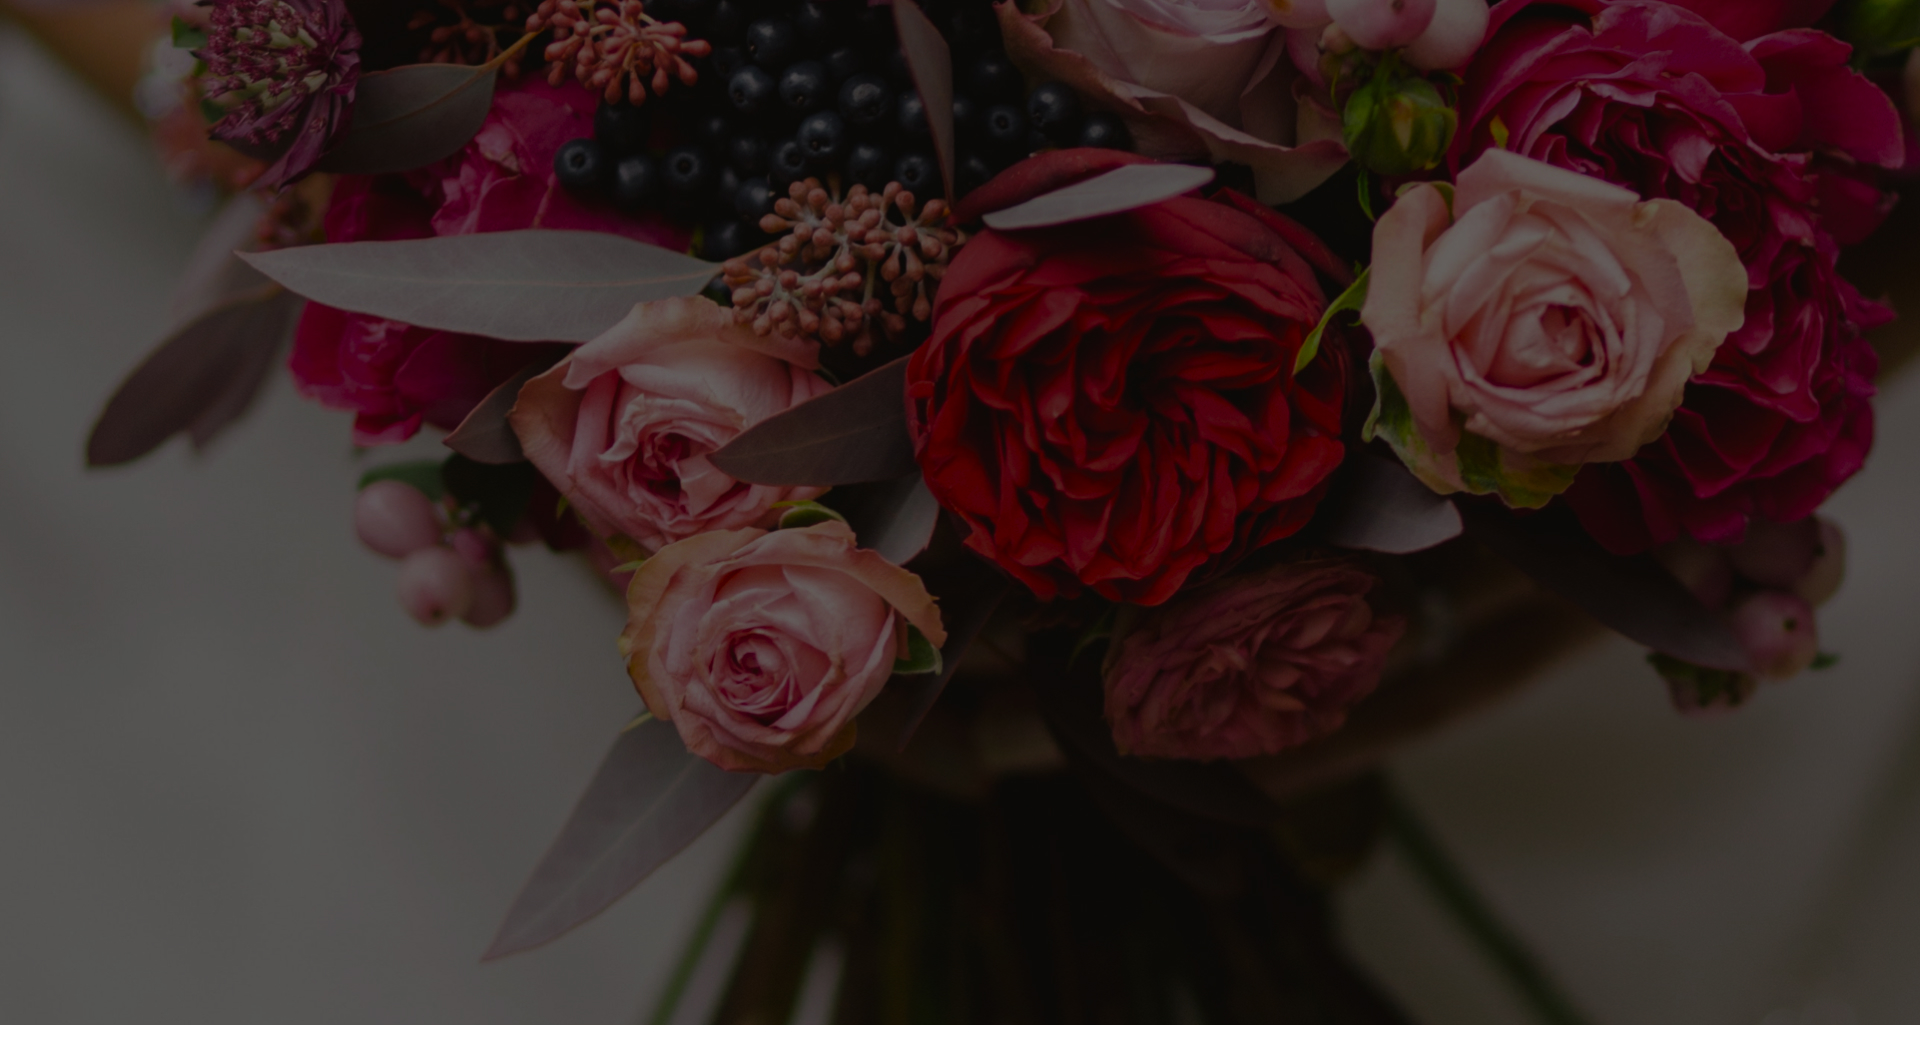
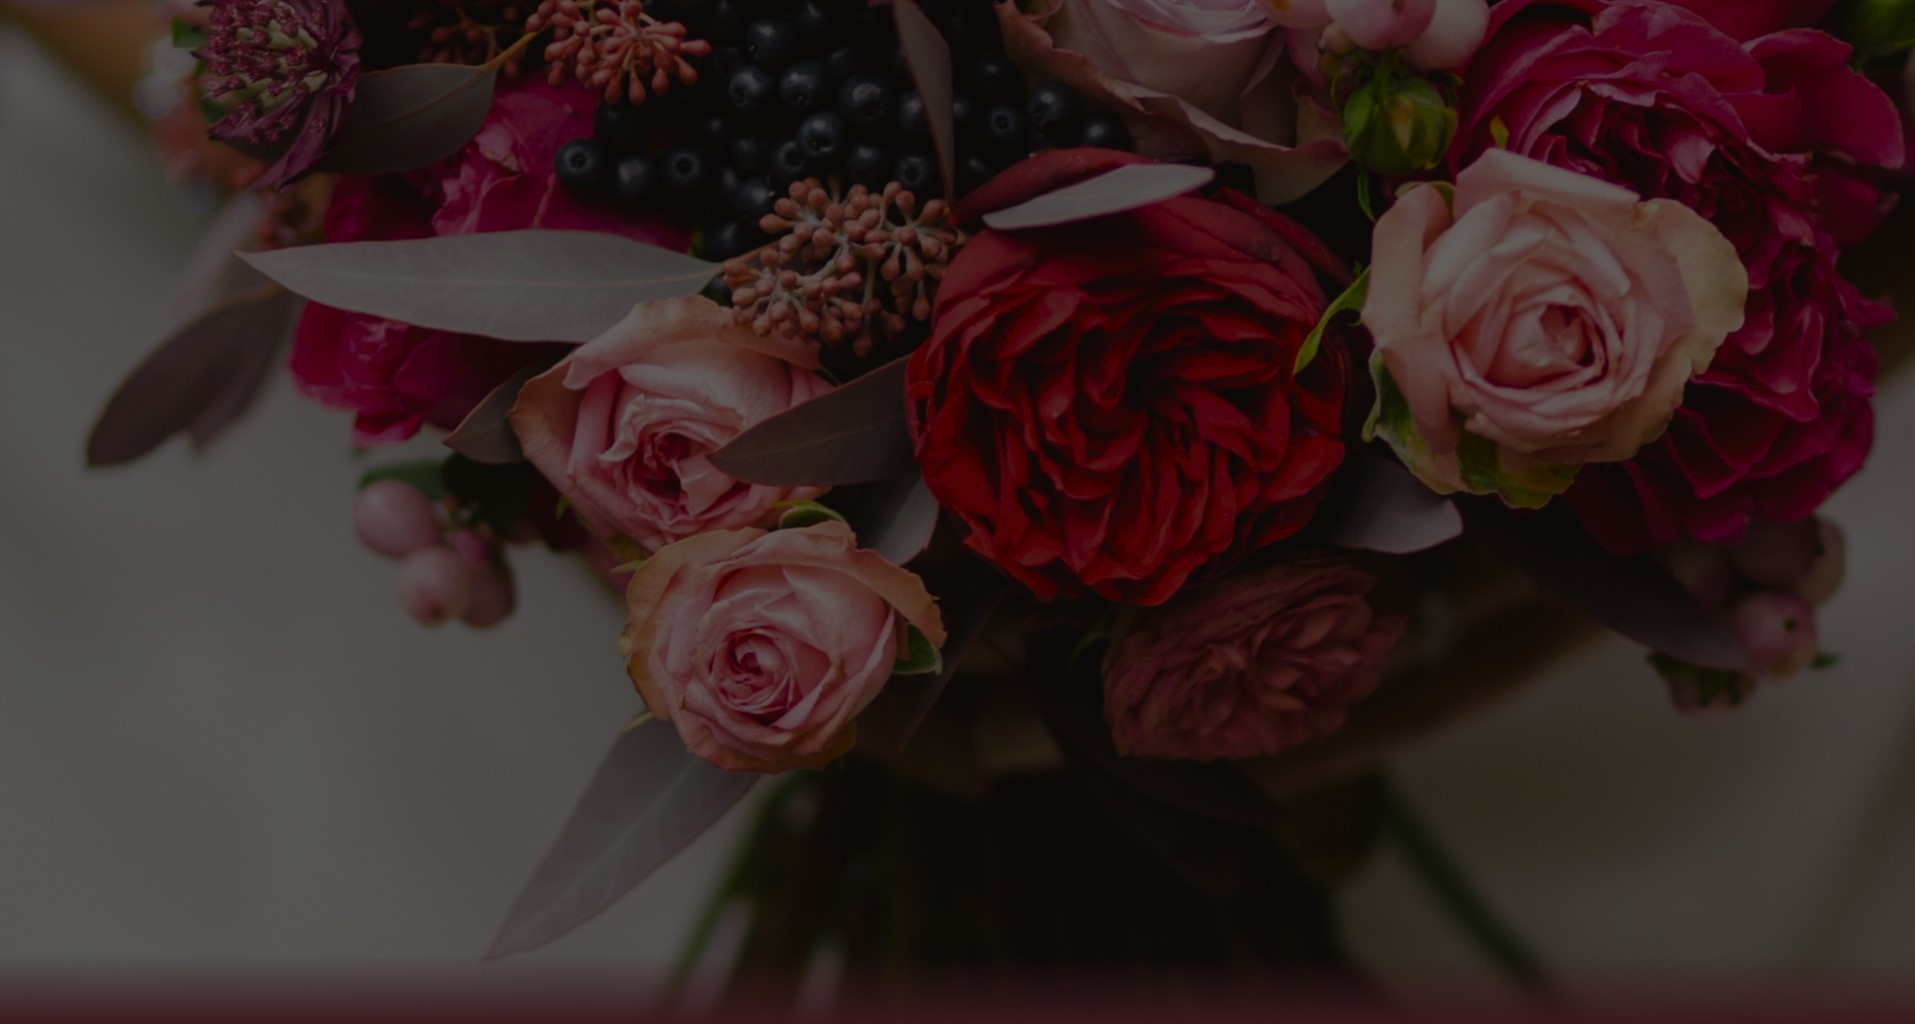
Стилизовал шапку и промо блок

diff --git a/css/style.css b/css/style.css
@@ -1,0 +1,206 @@
+body {
+    padding: 0;
+    margin: 0;
+
+    font-family: "Forum", sans-serif;
+    font-weight: normal;
+    font-size: 18px;
+    line-height: 170%;
+    color: white;
+
+
+    background: #3B181E url("../img/body-bg.jpg") no-repeat top center;
+}
+
+.container {
+    width: 1729px;
+    margin: 0 auto;
+}
+
+.visually-hidden {
+    position: absolute;
+    clip: rect(1px, 1px, 1px, 1px);
+    padding: 0;
+    border: 0;
+    height: 1px;
+    width: 1px;
+    overflow: hidden;
+}
+
+.button {
+    display: inline-block;
+    padding: 18px 30px;
+    border: 1px solid white;
+
+    font-size: 12px;
+    line-height: normal;
+    letter-spacing: 0.15em;
+    text-align: center;
+    text-transform: uppercase;
+    text-decoration: none;
+    color: white;
+}
+
+.section-title {
+    margin: 0;
+
+    font-weight: normal;
+    font-size: 30px;
+    line-height: normal;
+    letter-spacing: 0.06em;
+    color: white;
+}
+
+.main-nav-wrapper {
+    display: flex;
+    align-items: flex-start;
+    justify-content: space-between;
+}
+
+.logo {
+    padding: 87px 0 50px 0;
+}
+
+.header-menu-list {
+    display: flex;
+    flex-wrap: wrap;
+
+    list-style: none;
+    padding: 112px 0 50px 0;
+    margin: 0 -80px 0 0;
+}
+
+.header-menu-item {
+    margin-right: 80px;
+}
+
+.header-menu-item a {
+    font-size: 20px;
+    letter-spacing: 0.06em;
+    text-decoration: none;
+    text-transform: uppercase;
+    color: white;
+}
+
+.phone {
+    padding: 112px 0 50px 0;
+
+    font-size: 20px;
+    letter-spacing: 0.06em;
+    text-decoration: none;
+    text-transform: uppercase;
+    color: white;
+}
+
+.promo {
+    padding: 139px 0 286px 0;
+}
+
+.promo-title {
+    font-size: 120px;
+    line-height: normal;
+    letter-spacing: 0.09em;
+    text-align: center;
+    text-transform: uppercase;
+
+    margin-bottom: 80px;
+}
+
+.promo .button-wrapper {
+    text-align: center;
+}
+
+.promo .link-wrapper {
+    display: flex;
+    justify-content: space-between;
+    align-items: flex-start;
+
+    margin-top: 41px;
+
+    position: relative;
+}
+
+.promo .link-wrapper::after {
+    content: "";
+
+    width: 37px;
+    height: 56px;
+    background: url("../img/mouse.png");
+
+    position: absolute;
+    bottom: 0;
+    left: 50%;
+    transform: translateX(-50%);
+}
+
+.promo-socials-list {
+    list-style: none;
+    margin: 0;
+    padding: 0;
+}
+
+.promo-socials-item {
+    margin-bottom: 22px;
+    width: 27px;
+    height: 27px;
+    font-size: 0;
+}
+
+.promo-socials-item:nth-child(1) {
+    background: url("../img/inst.svg") no-repeat;
+}
+
+.promo-socials-item:nth-child(2) {
+    background: url("../img/fb.svg") no-repeat;
+}
+
+.promo-socials-item:nth-child(3) {
+    background: url("../img/whatsapp.svg") no-repeat;
+}
+
+.promo-socials-item:nth-child(4) {
+    background: url("../img/vk.svg") no-repeat;
+}
+
+.watch-catalog-link {
+    display: inline-block;
+
+    font-size: 20px;
+    line-height: normal;
+    letter-spacing: 0.06em;
+    color: white;
+    text-transform: lowercase;
+    text-decoration: none;
+    transform: rotate(90deg) translate(-10px, -155px);
+    transform-origin: left;
+
+    position: relative;
+}
+
+.watch-catalog-link::before {
+    content: "";
+
+    width: 15px;
+    height: 1px;
+    border-bottom: 1px solid white;
+
+    position: absolute;
+    right: -31px;
+    top: 48%;
+    transform: translateY(-50%);
+}
+
+.watch-catalog-link::after {
+    content: "";
+
+    width: 6px;
+    height: 6px;
+    border: 1px solid white;
+    border-top: transparent;
+    border-left: transparent;
+
+    position: absolute;
+    right: -30px;
+    top: 50%;
+    transform: translateY(-50%) rotate(-45deg);
+}

diff --git a/index.html b/index.html
@@ -32,8 +32,10 @@
             <h1 class="visually-hidden">Главная страница флористической компании «Весна всегда»</h1>
             <section class="promo">
                 <div class="container">
-                    <h2 class="section-title promo-title">Флористика с душой</h2>
-                    <a href="#" class="button promo-button">Смотреть работы</a>
+                    <h2 class="section-title promo-title">Флористика<br> с душой</h2>
+                    <div class="button-wrapper">
+                        <a href="#" class="button promo-button">Смотреть работы</a>
+                    </div>
                     <div class="link-wrapper">
                         <ul class="promo-socials-list">
                             <li class="promo-socials-item"><a href="#">Instagram</a></li>
@@ -41,7 +43,7 @@
                             <li class="promo-socials-item"><a href="#">Whatsapp</a></li>
                             <li class="promo-socials-item"><a href="#">Вконтакте</a></li>
                         </ul>
-                        <a href="#">Смотреть каталог</a>
+                        <a class="watch-catalog-link" href="#">Смотреть каталог</a>
                     </div>
                 </div>
             </section>
